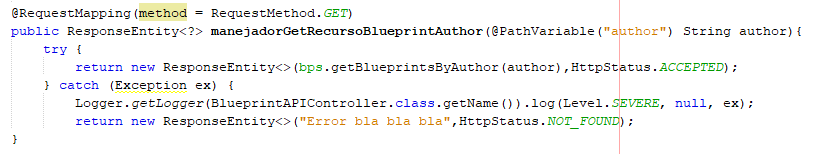
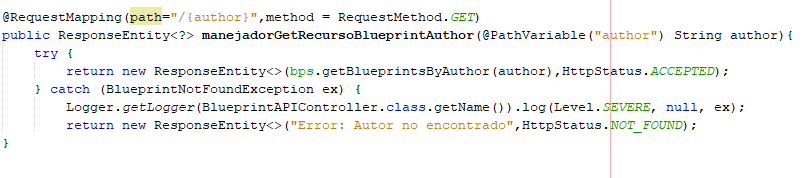
Parte 2.1

diff --git a/src/main/java/edu/eci/arsw/blueprints/controllers/BlueprintAPIController.java b/src/main/java/edu/eci/arsw/blueprints/controllers/BlueprintAPIController.java
@@ -8,6 +8,7 @@ package edu.eci.arsw.blueprints.controllers;
 import edu.eci.arsw.blueprints.filter.Filtering;
 import edu.eci.arsw.blueprints.model.Blueprint;
 import edu.eci.arsw.blueprints.persistence.BlueprintNotFoundException;
+import edu.eci.arsw.blueprints.persistence.BlueprintPersistenceException;
 import edu.eci.arsw.blueprints.services.BlueprintsServices;
 import java.util.LinkedHashSet;
 import java.util.Set;
@@ -18,6 +19,7 @@ import org.springframework.beans.factory.annotation.Qualifier;
 import org.springframework.http.HttpStatus;
 import org.springframework.http.ResponseEntity;
 import org.springframework.web.bind.annotation.PathVariable;
+import org.springframework.web.bind.annotation.RequestBody;
 import org.springframework.web.bind.annotation.RequestMapping;
 import org.springframework.web.bind.annotation.RequestMethod;
 import org.springframework.web.bind.annotation.RestController;
@@ -27,35 +29,58 @@ import org.springframework.web.bind.annotation.RestController;
  * @author hcadavid
  */
 @RestController
-@RequestMapping(value = "/blueprints/{author}/{bpname}")
+@RequestMapping(value = "/blueprints")
 public class BlueprintAPIController {
     
     @Autowired
     @Qualifier("blueprintsServices")
     BlueprintsServices bps;
     
-    /*
-    @RequestMapping(value = "/blueprints",method = RequestMethod.GET)
+    
+    @RequestMapping(method = RequestMethod.GET)
     public ResponseEntity<?> manejadorGetRecursoBlueprint(){
         try {
             return new ResponseEntity<>(bps.getAllBlueprints(),HttpStatus.ACCEPTED);
         } catch (Exception ex) {
             Logger.getLogger(BlueprintAPIController.class.getName()).log(Level.SEVERE, null, ex);
             return new ResponseEntity<>("Error bla bla bla",HttpStatus.NOT_FOUND);
+    }
+        
+    }
+    
+    @RequestMapping(path="/{author}",method = RequestMethod.GET)
+    public ResponseEntity<?> manejadorGetRecursoBlueprintAuthor(@PathVariable("author") String author){
+        try {
+            return new ResponseEntity<>(bps.getBlueprintsByAuthor(author),HttpStatus.ACCEPTED);
+        } catch (BlueprintNotFoundException ex) {
+            Logger.getLogger(BlueprintAPIController.class.getName()).log(Level.SEVERE, null, ex);
+            return new ResponseEntity<>(ex.getMessage(),HttpStatus.NOT_FOUND);
     } 
-     */
-    @RequestMapping(method = RequestMethod.GET)
-    public ResponseEntity<?> manejadorGetRecursoBlueprintAuthor(@PathVariable("author") String author, @PathVariable("bpname") String bpname){
+   }
+    
+    
+    @RequestMapping(path="/{author}/{bpname}",method = RequestMethod.GET)
+    public ResponseEntity<?> manejadorGetRecursoBlueprintAuthorName(@PathVariable("author") String author, @PathVariable("bpname") String bpname){
         try {
             return new ResponseEntity<>(bps.getBlueprint(author,bpname),HttpStatus.ACCEPTED);
         } catch (BlueprintNotFoundException ex) {
             Logger.getLogger(BlueprintAPIController.class.getName()).log(Level.SEVERE, null, ex);
-            return new ResponseEntity<>("Error: No encontrado",HttpStatus.NOT_FOUND);
+            return new ResponseEntity<>(ex.getMessage(),HttpStatus.NOT_FOUND);
     } 
     
    }
     
-    
+    @RequestMapping(method = RequestMethod.POST)	
+    public ResponseEntity<?> manejadorPostRecursoXX(@RequestBody Blueprint bp){
+        try {
+            bps.addNewBlueprint(bp);
+            return new ResponseEntity<>(HttpStatus.CREATED);
+        } catch (BlueprintPersistenceException ex) {
+            Logger.getLogger(BlueprintAPIController.class.getName()).log(Level.SEVERE, null, ex);
+            return new ResponseEntity<>("Error bla bla bla",HttpStatus.FORBIDDEN);            
+        }        
+
+}
     
     
     

diff --git a/src/main/java/edu/eci/arsw/blueprints/persistence/impl/InMemoryBlueprintPersistence.java b/src/main/java/edu/eci/arsw/blueprints/persistence/impl/InMemoryBlueprintPersistence.java
@@ -63,20 +63,36 @@ public class InMemoryBlueprintPersistence implements BlueprintsPersistence{
 
     @Override
     public Blueprint getBlueprint(String author, String bprintname) throws BlueprintNotFoundException {
-        return blueprints.get(new Tuple<>(author, bprintname));
+        
+        if (blueprints.containsKey(new Tuple<>(author, bprintname))){
+            return blueprints.get(new Tuple<>(author, bprintname));
+           
+        }
+        else
+        {
+             throw new BlueprintNotFoundException("El nombre de ese autor no existe");
+        }
+        
     }
 
     @Override
     public Set<Blueprint> getBlueprintsByAuthor(String author) throws BlueprintNotFoundException {
         Set<Blueprint> autores = new HashSet<Blueprint>();
-        
+        int cont=0;
         for (Map.Entry<Tuple<String,String>,Blueprint> blue:blueprints.entrySet()){
             String a=blue.getValue().getAuthor();
             if(a.equals(author)){
                 autores.add(blue.getValue());
+                cont+=1;
             }
         }
-        return autores;
+        if (cont==0){
+            throw new BlueprintNotFoundException("El autor no existe");
+        }
+        else{
+            return autores;  
+        }
+        
     }
 
     @Override

diff --git a/README.md b/README.md
@@ -30,6 +30,9 @@
 
 ## PART II
 *	Add the handling of POST requests (creation of new plans), so that an http client can register a new order by making a POST request to the resource planes, and sending as content of the request all the detail of said resource through a JSON document. For this, consider the following example, which considers - by consistency with the HTTP protocol - the handling of HTTP status codes (in case of success or error):
+
+	![Alt text](img/1.7.PNG)
+
 *	To test that the planes resource correctly accepts and interprets POST requests, use the Unix curl command. This command has as a parameter the type of content handled (in this case JSON), and the message body that will go with the request, which in this case must be a JSON document equivalent to the Client class (where instead of {JSON Object}, a JSON object corresponding to a new order will be used.
 *	With the above, register a new plane (to 'design' a JSON object, you can use this tool). It can be based on the JSON format shown in the browser when consulting an order with the GET method.
 *	Taking into account the author and name of the registered plan, verify that it can be obtained through a GET request to the corresponding resource /blueprints/{author}/{bpname}.
